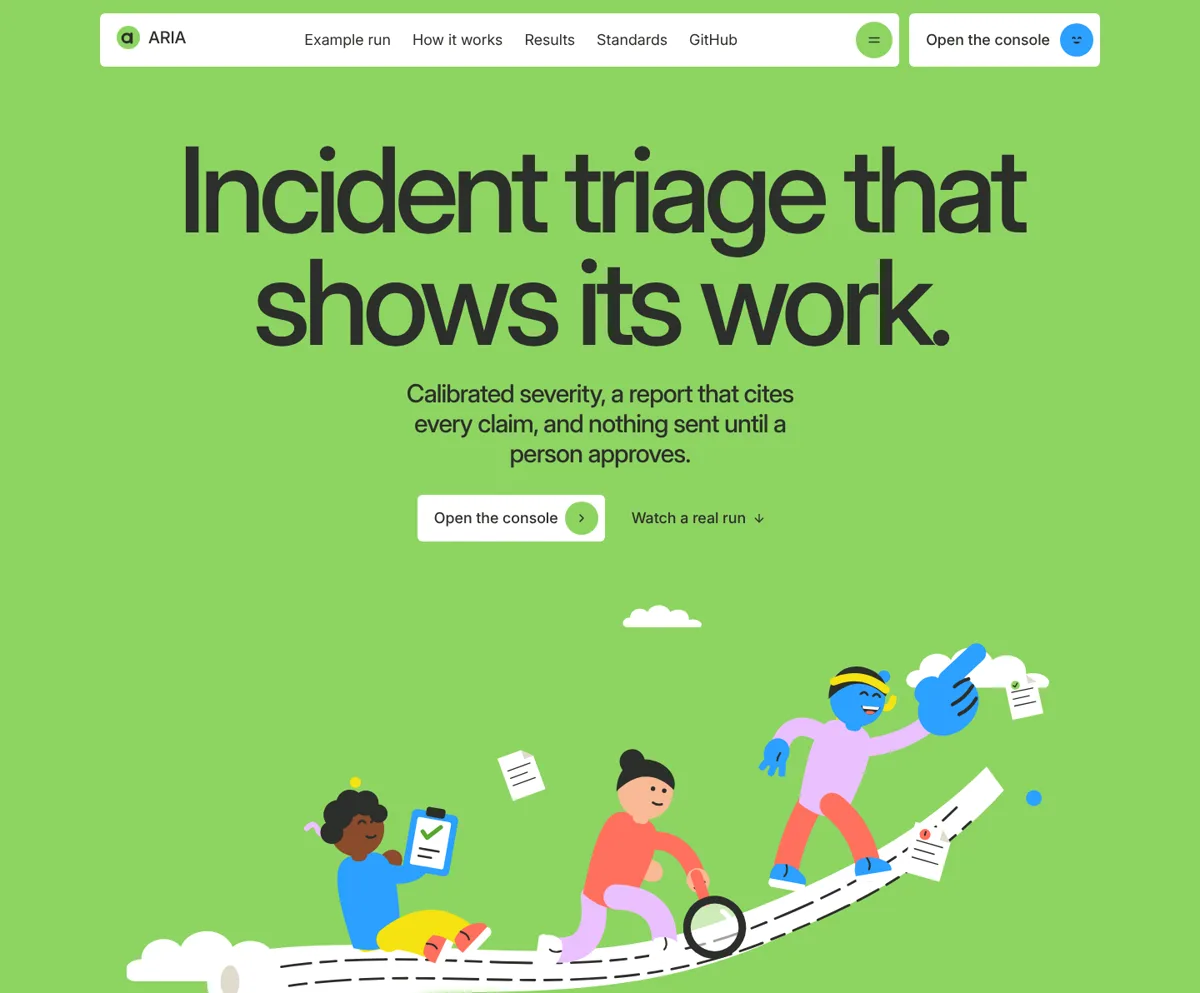
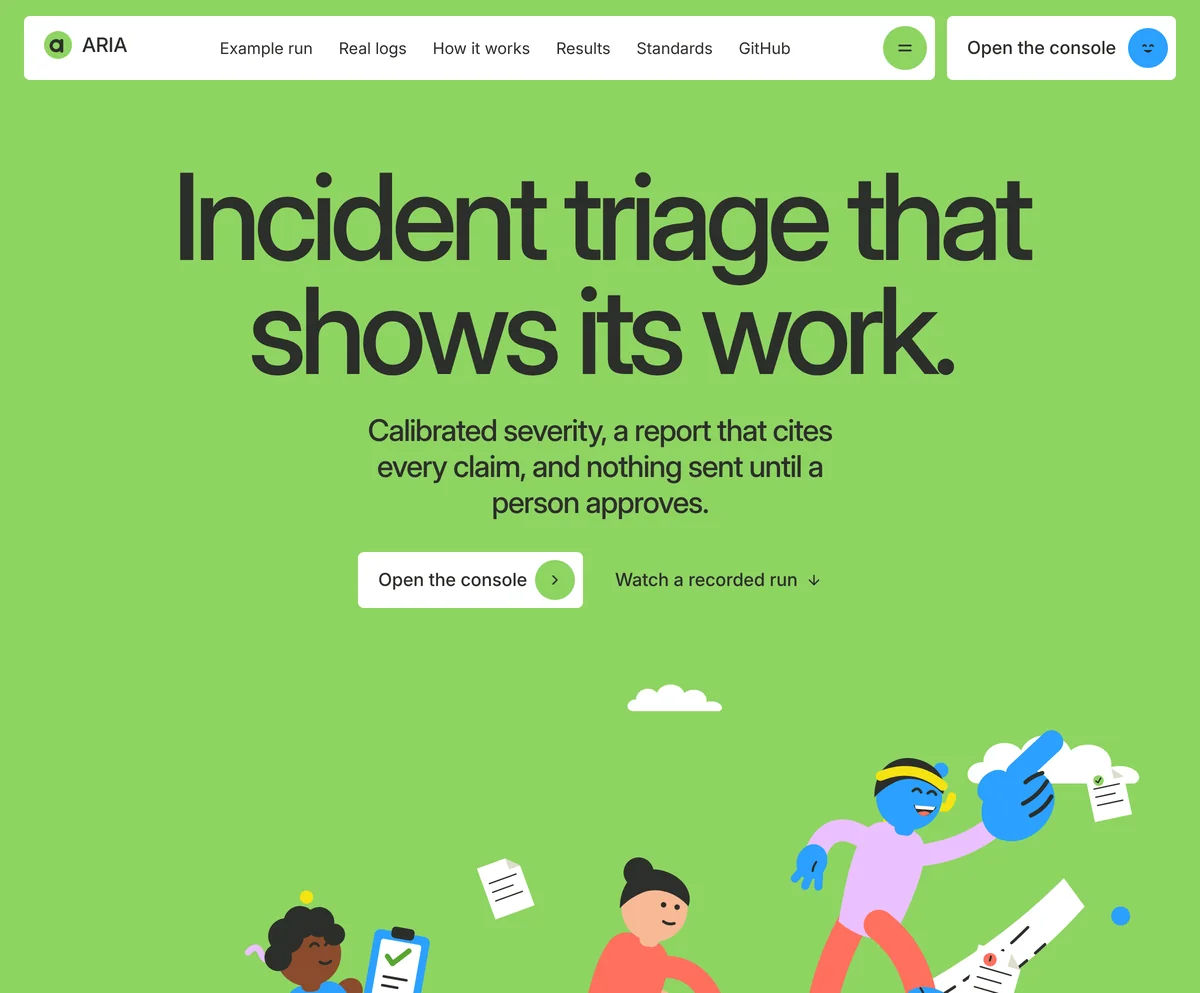
Show the real-log proof in the README and refresh the hero screenshot
The README's results section now opens with a screenshot of the landing page's
real-logs section: the headline results on the real Hadoop log and the
comparison with ARIA's severity engine and a keyword rule. The hero
screenshot is retaken so it shows the current navigation, with its Real logs
link, and the "Watch a recorded run" button.

Claude-Session: https://claude.ai/code/session_018rC9kNAVrecT5oThgSmYFg

diff --git a/README.md b/README.md
@@ -108,8 +108,9 @@ Open http://localhost:3000 for the landing page, then **Open the console**. New 
 console's **How to use ARIA** page replays a real incident (ten minutes of a real Hadoop
 cluster's log) or starts a sample triage in one click, and explains how to read a run. A replayed
 run shows the blocks ARIA flagged next to the label Hadoop experts gave each one, and the run
-page's first tab tells the run as each agent's turn. In the console, Ctrl or ⌘ + K opens a command palette that jumps to any page, recent
-incident, sample or definition, and `?` lists the keyboard shortcuts. The API listens on
+page's first tab tells the run as each agent's turn. In the console, Ctrl or ⌘ + K opens a
+command palette that jumps to any page, recent incident, sample or definition, and `?` lists the
+keyboard shortcuts. The API listens on
 http://127.0.0.1:8000 (OpenAPI docs at `/docs`). Without `make data`, ARIA seeds incident memory
 from the small test fixtures; `make data` downloads the Loghub samples (pinned commit, checked
 hashes) for realistic memory and for `make eval`.
@@ -248,6 +249,10 @@ The full analysis, with the code and test for each control, is in the
 [threat model](docs/threat-model.md).
 
 ## Measured results
+
+![The landing page's Real logs section: four headline results on the real Hadoop log, how ARIA catches a failure nobody logged, and bars comparing the precision and recall of ARIA, its severity engine and a keyword rule.](docs/images/real.webp)
+
+*The landing page's proof on real logs. Every number on it comes from `docs/eval-results.json`.*
 
 <!-- generated:results -->
 Generated by `make eval` at commit `aa5ee5d`; do not edit by hand. Apart from the real-log results, the data is **semi-synthetic**: real lines from the public Loghub samples, composed into incidents by ARIA's scenario builder, on held-out seeds 41, 42. These numbers show how ARIA behaves on that distribution, not its accuracy on production incidents.
